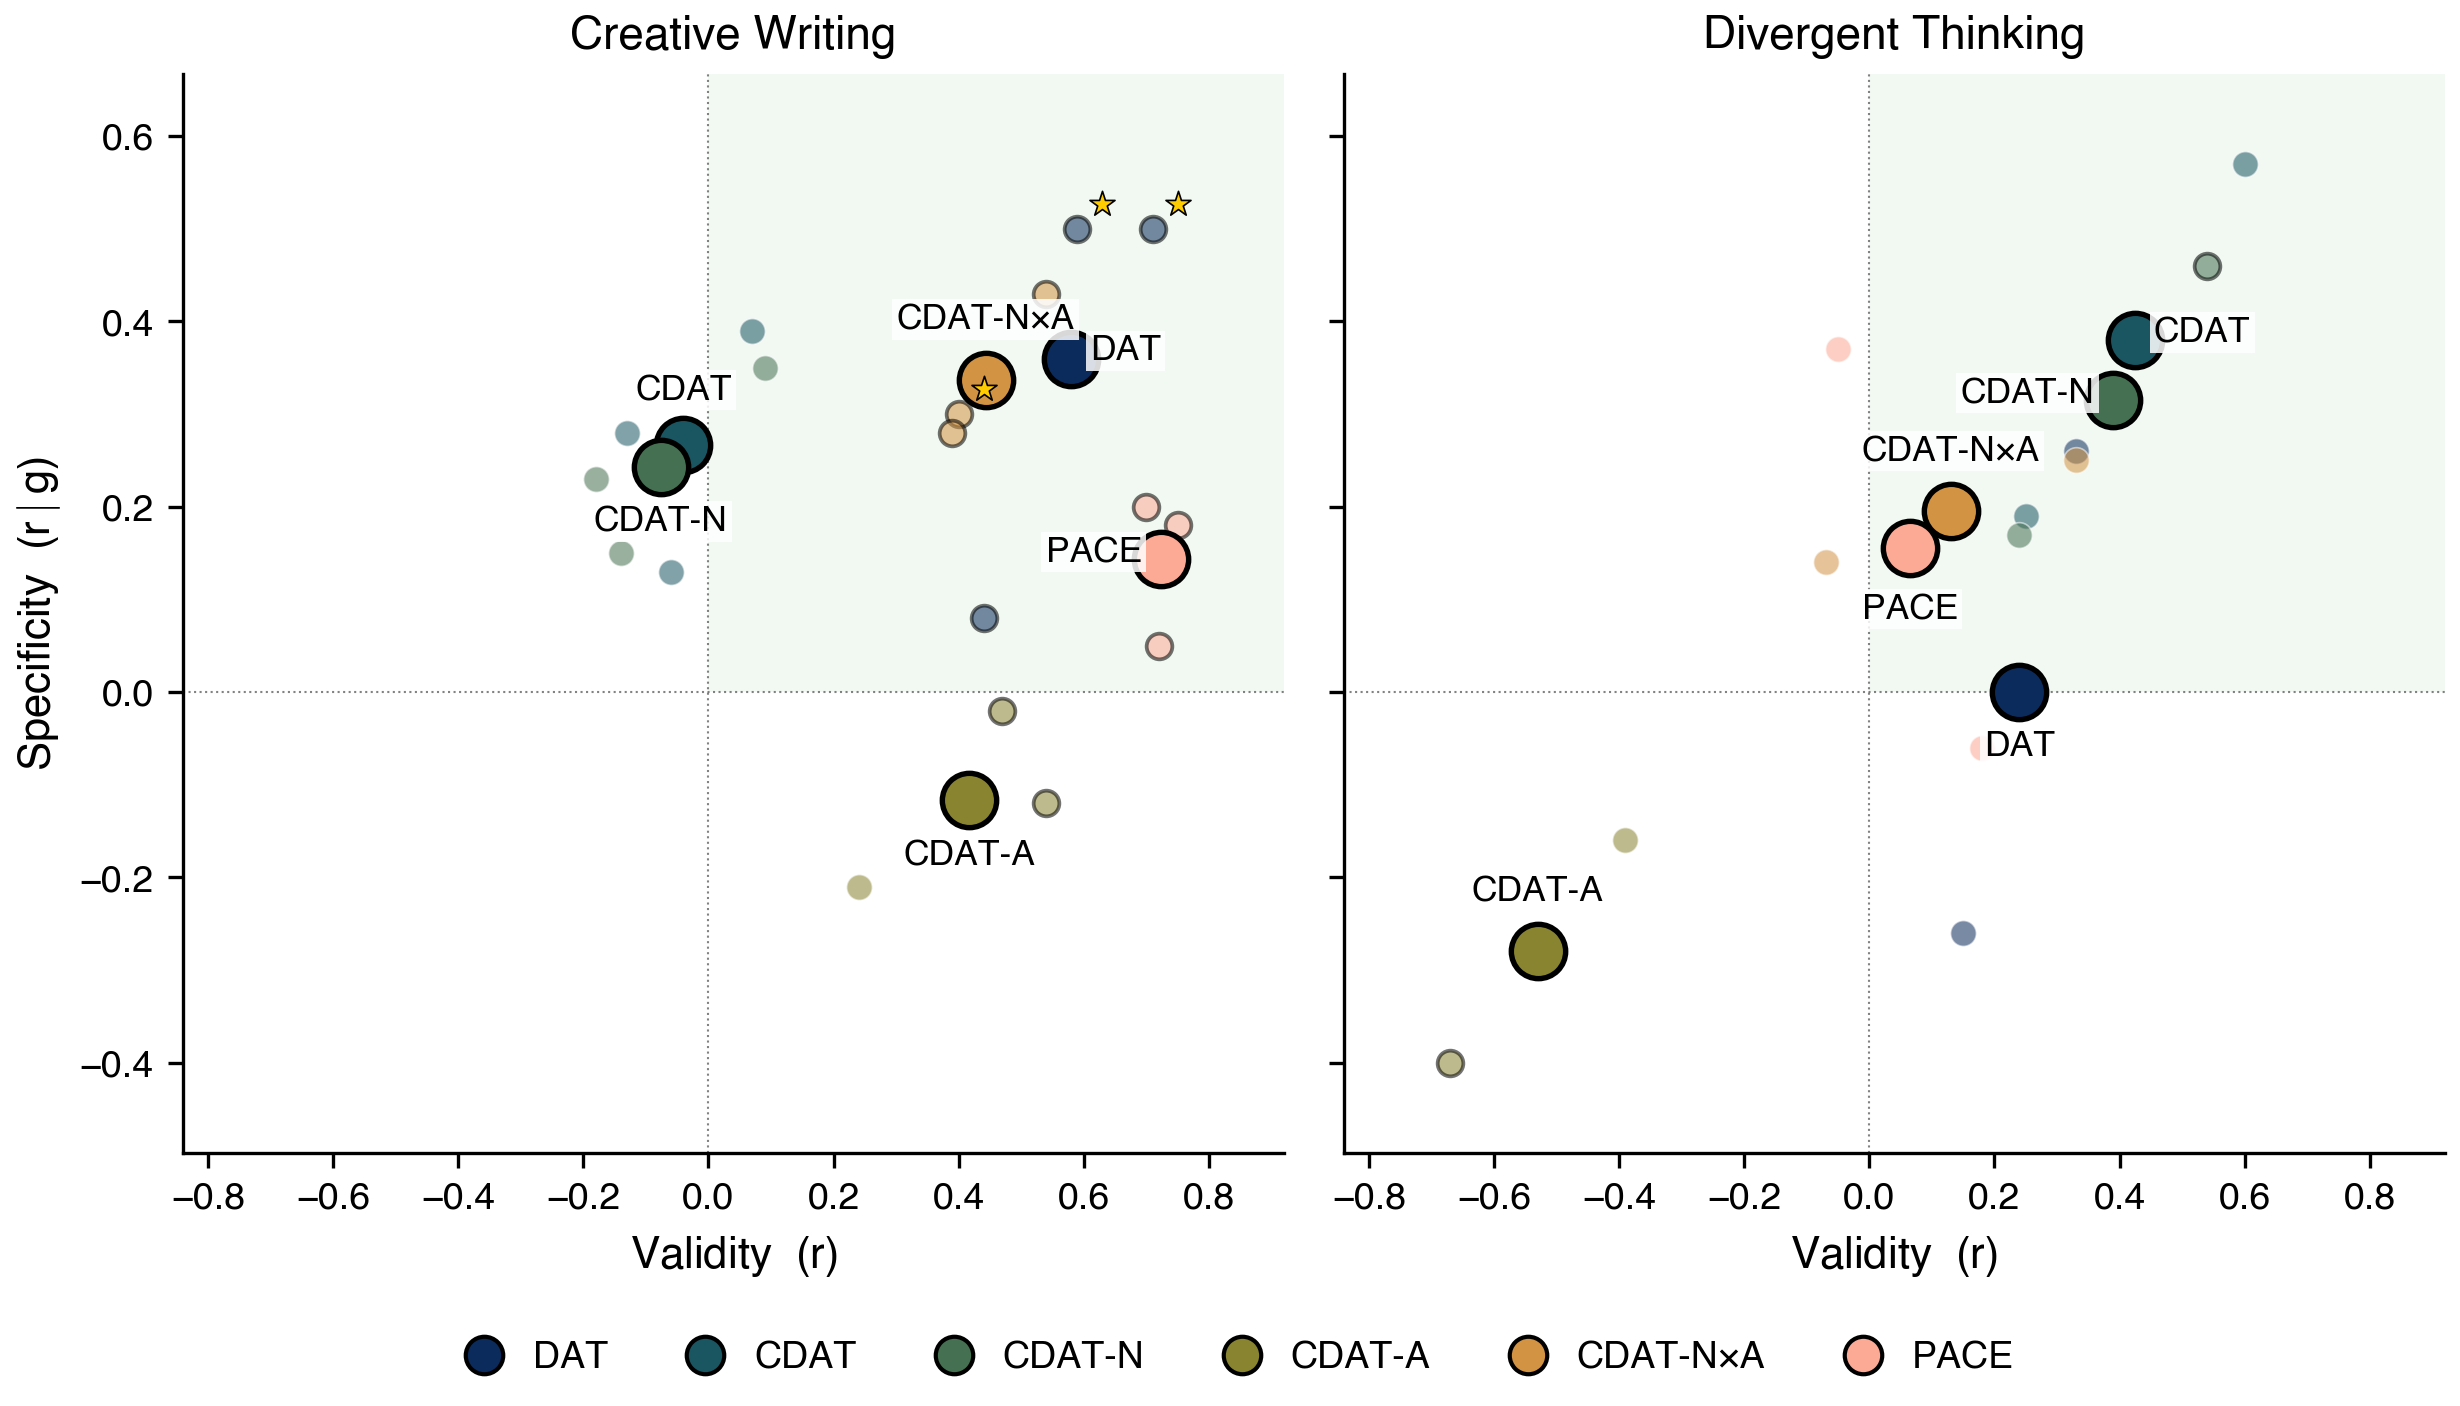
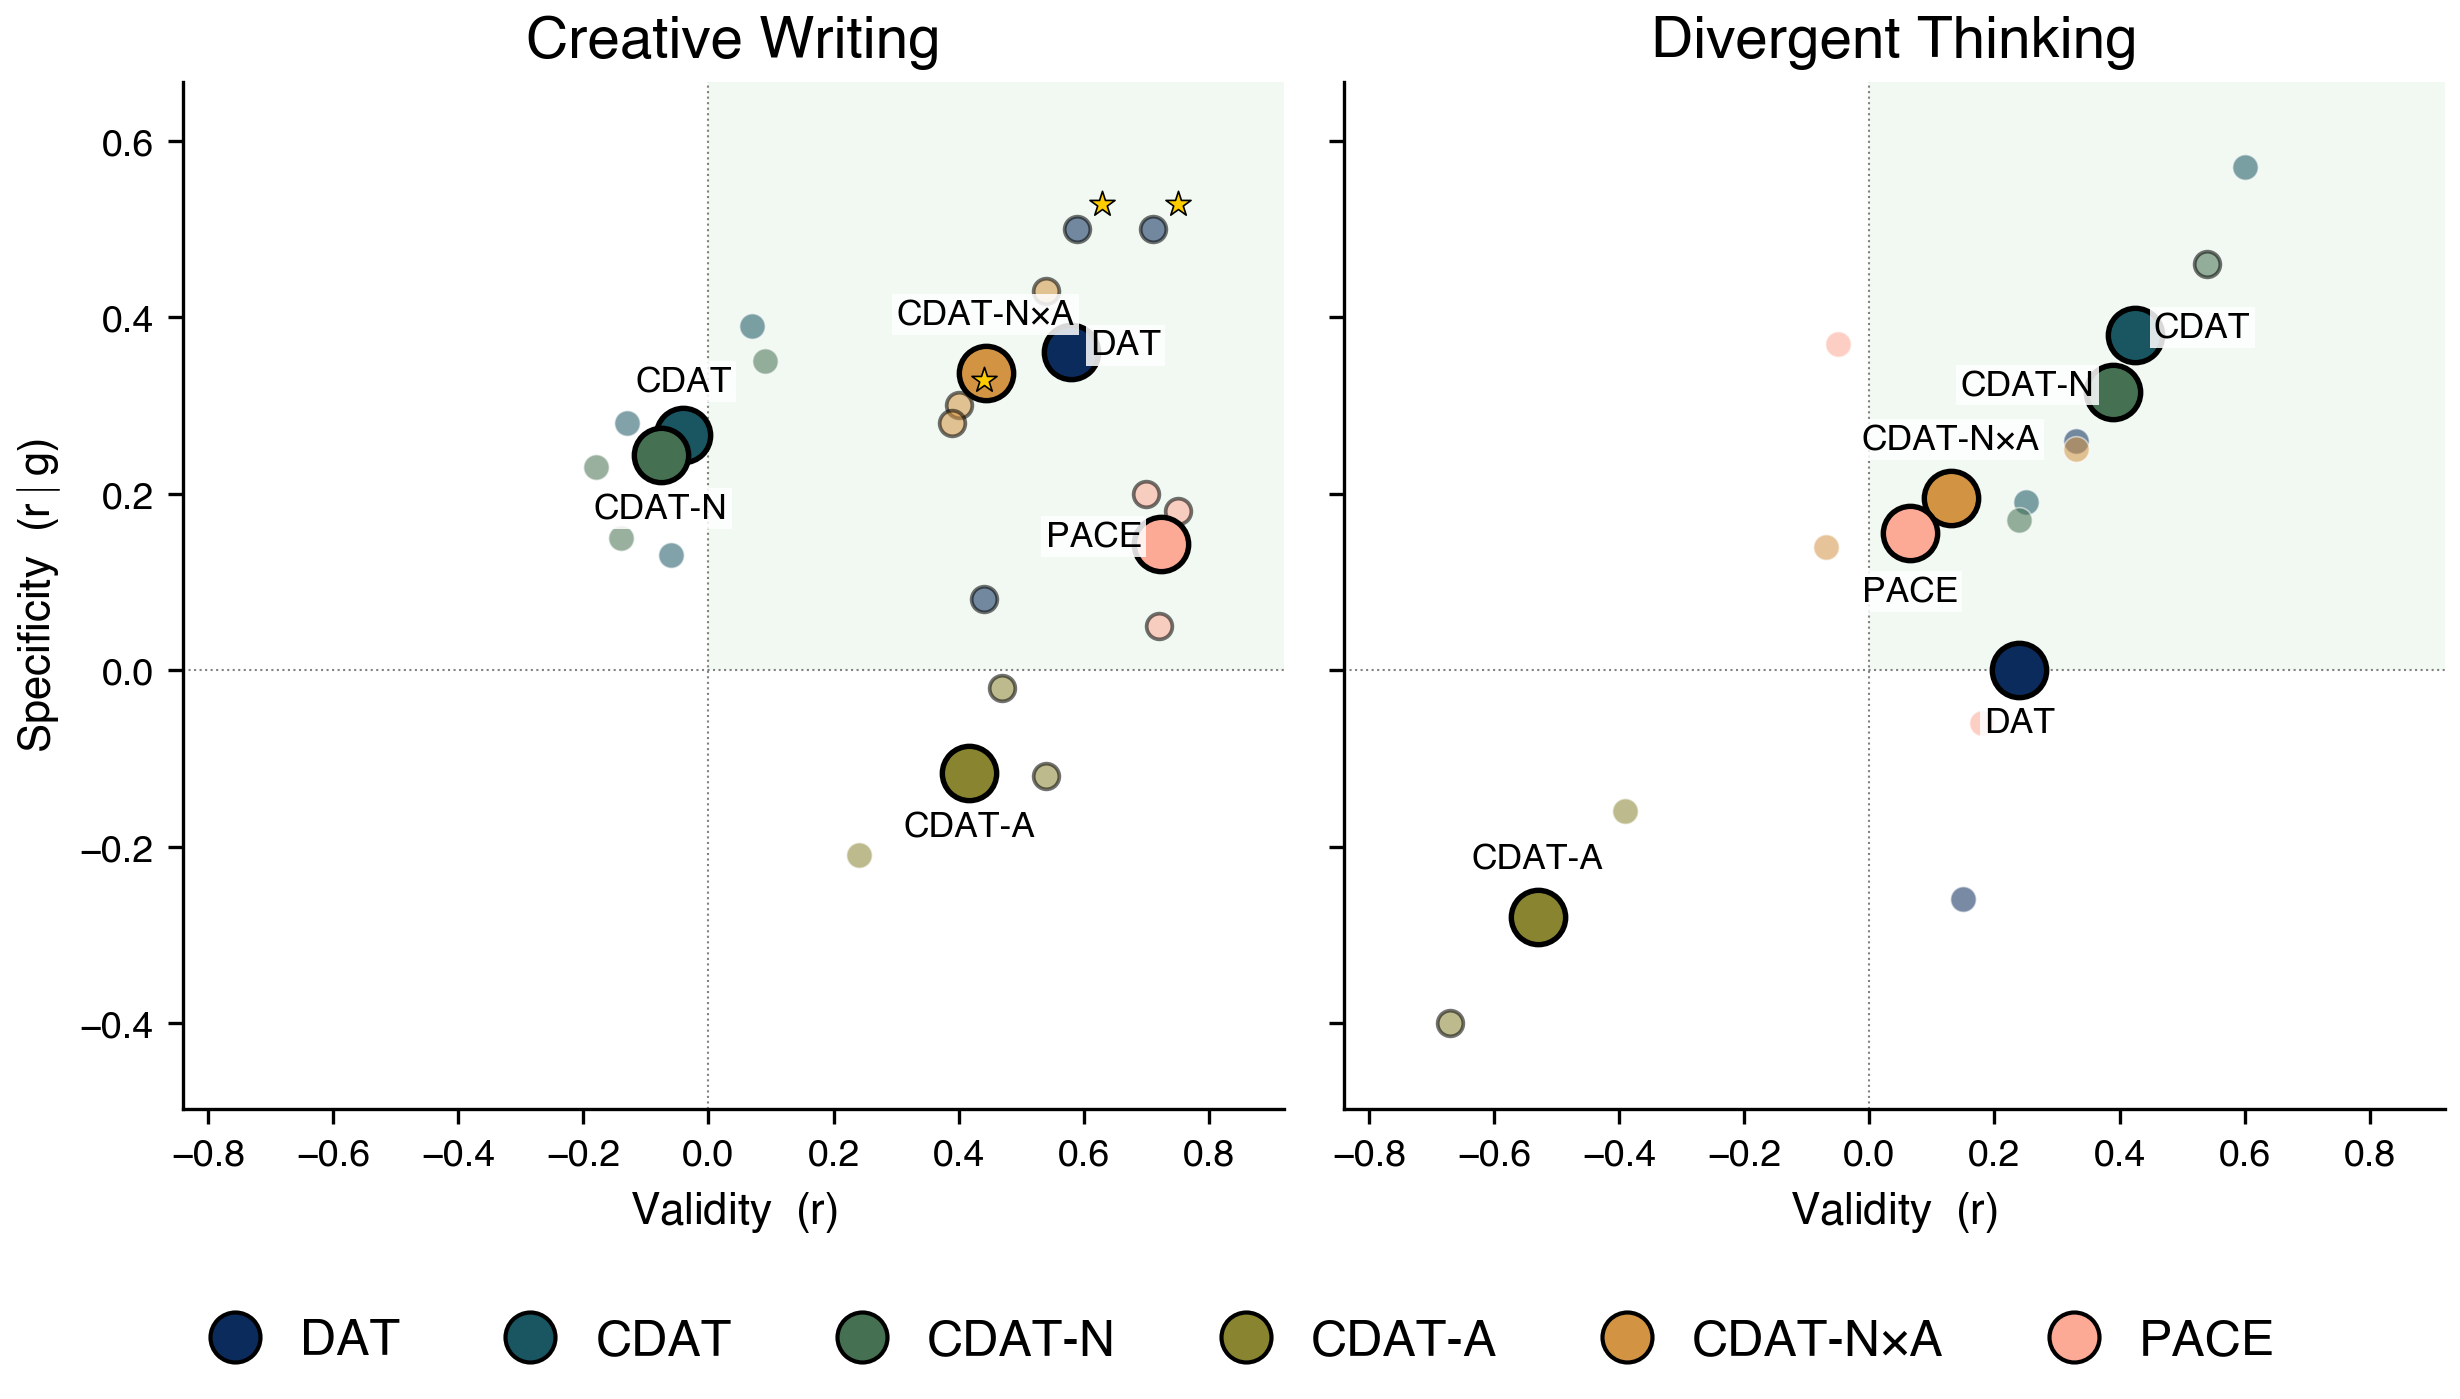
fig_headline: bump title and legend font sizes
Panel titles 11pt -> 14pt, legend labels 9pt -> 12pt, legend markers
9 -> 12. rect bottom slightly raised to accommodate the larger legend.

diff --git a/src/dat_eval/scripts/make_figures.py b/src/dat_eval/scripts/make_figures.py
@@ -1369,13 +1369,13 @@ def fig_headline():
     from matplotlib.lines import Line2D
 
     figsize = (8.4, 4.8)
-    title_fs, axis_fs, tick_fs = 11.0, 10.5, 9.0
-    leg_fs, leg_title_fs, annotate_fs = 9.0, 9.5, 8.5
+    title_fs, axis_fs, tick_fs = 14.0, 10.5, 9.0
+    leg_fs, leg_title_fs, annotate_fs = 12.0, 12.0, 8.5
     s_ind, s_overall, s_star = 38, 170, 40
     overall_edge_lw, ind_sig_lw, ind_nosig_lw = 1.3, 0.9, 0.4
-    leg_ms_test, leg_ms_overall, leg_ms_star, leg_ms_outl = 9, 11, 10, 7
+    leg_ms_test, leg_ms_overall, leg_ms_star, leg_ms_outl = 12, 14, 13, 9
     star_off_pts = 6
-    rect = [0, 0.06, 1, 1]
+    rect = [0, 0.09, 1, 1]
     out_dirs = [FIGS_DIR, PAPER_FIGS_DIR]
 
     # Colors encode tests. 6 well-separated categorical samples from Batlow;
